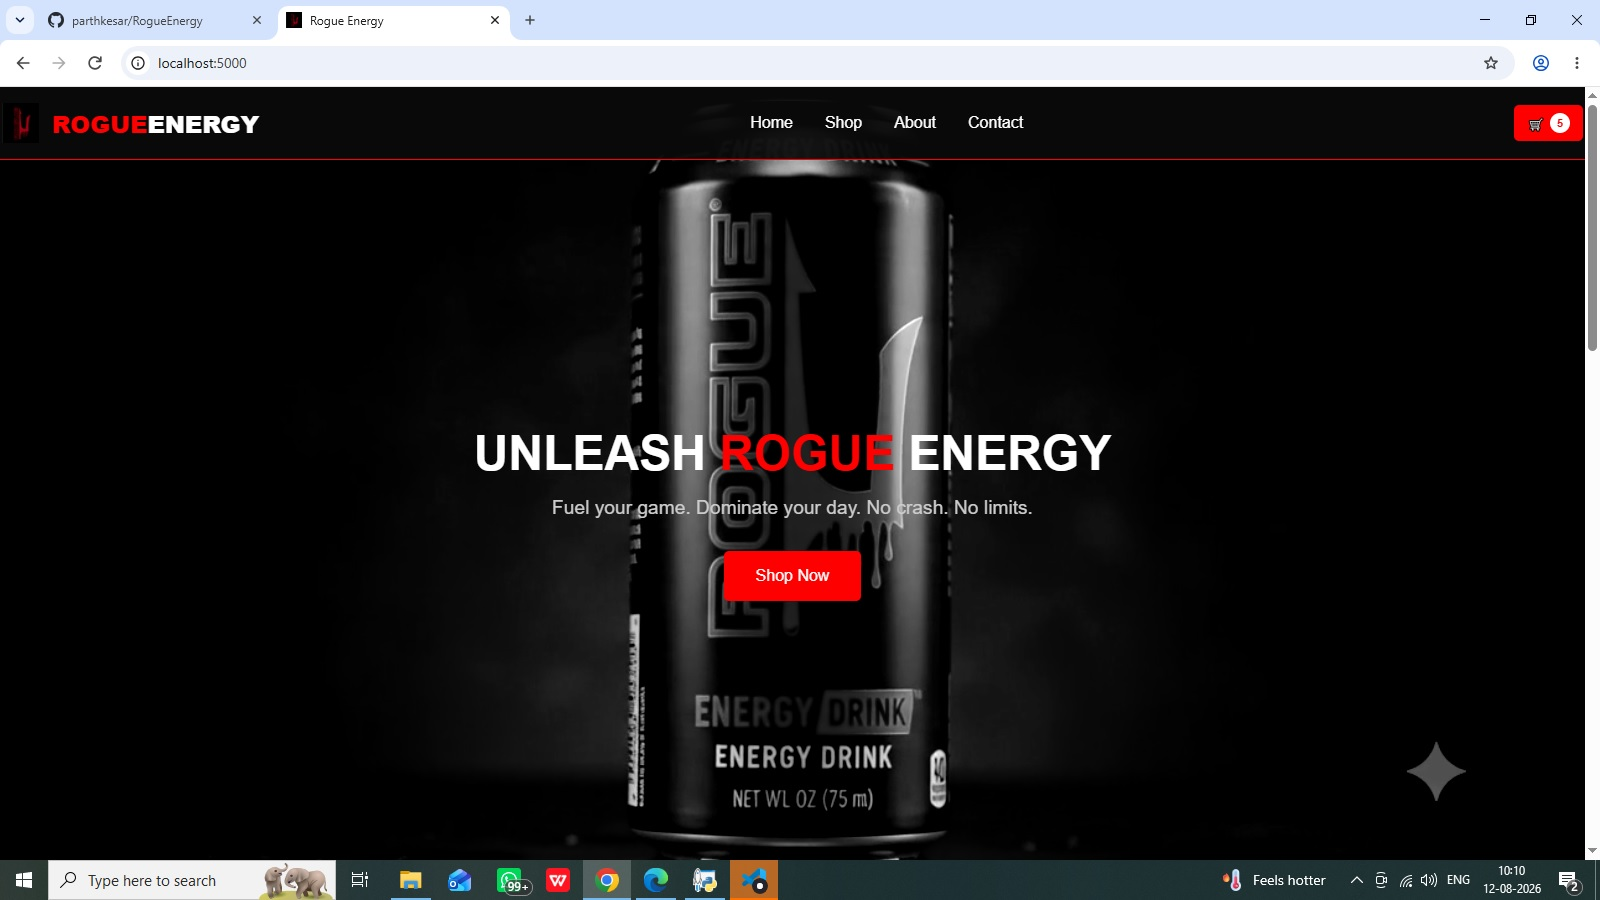
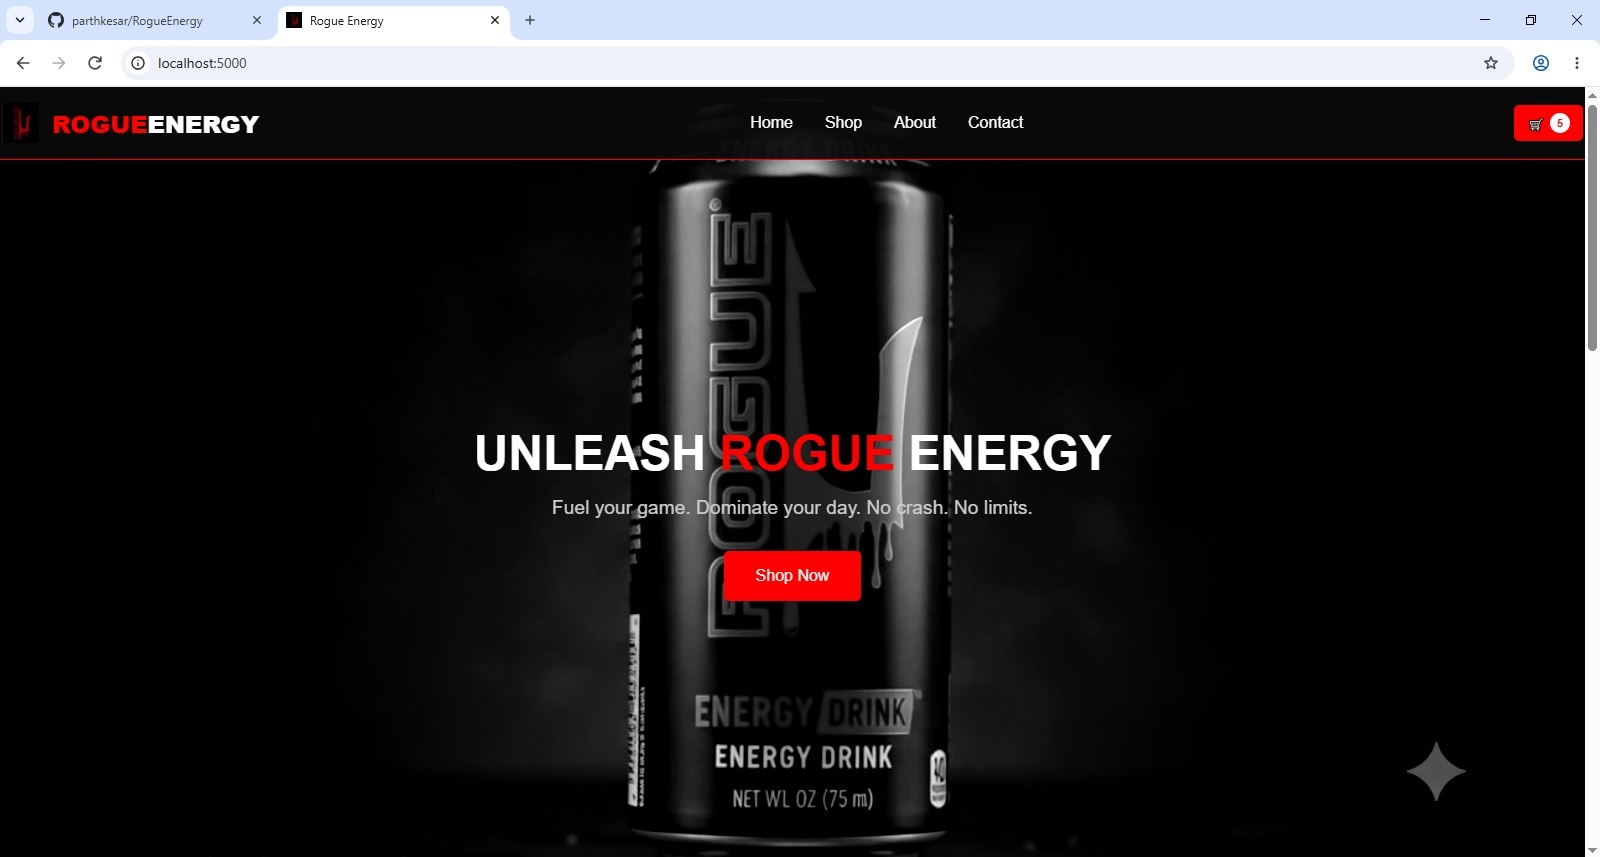
projects in progress

diff --git a/index.html b/index.html
@@ -212,7 +212,7 @@
         <h2 id="project-heading">Projects</h2>
         <div class="project-outline">
           <div class="project-bar">
-            <img src="img/rogueproject.jpg" alt="img" class="project-image" />
+            <img src="img/rogueprojectwithout taskbar.jpg" alt="img" class="project-image" />
             <p>
               This Flask application is a web app for the brand Rogue Energy.
               It serves a main landing page and provides backend APIs for
@@ -224,18 +224,60 @@
               </svg>
             </div>
           </div>
-          <div class="project-details">
+          <div class="project-details" style="overflow-y: scroll;">
             <h3>Rogue Energy Flask App</h3>
             <p>
-              A small Flask web app built for Rogue Energy with a landing page,
-              contact form, and backend APIs to support future e-commerce
-              features.
+              This Flask application is a small web app for the brand Rogue
+              Energy. It serves a main landing page and provides backend APIs
+              for contact submission and future shopping cart/checkout support.
             </p>
-            <ul>
-              <li>Flask frontend and backend integration</li>
-              <li>Contact submission support with persistence</li>
-              <li>Planned cart and checkout endpoints for future expansion</li>
-            </ul>
+
+            <div class="project-section">
+              <h4>Project Description</h4>
+              <ul>
+                <li>Renders a homepage using Flask templates.</li>
+                <li>Supports contact form submission via HTML and AJAX.</li>
+                <li>Provides API endpoints for cart retrieval, addition, and checkout.</li>
+              </ul>
+            </div>
+
+            <div class="project-section">
+              <h4>Data and Persistence</h4>
+              <p>
+                Uses a MySQL database for persistent storage and reads
+                connection settings from environment variables.
+              </p>
+              <ul>
+                <li>DB_HOST</li>
+                <li>DB_USER</li>
+                <li>DB_PASSWORD</li>
+                <li>DB_NAME</li>
+              </ul>
+            </div>
+
+            <div class="project-section">
+              <h4>Project Structure</h4>
+              <ul>
+                <li><strong>app.py</strong> — Flask application and route logic</li>
+                <li><strong>template/index.html</strong> — main HTML template</li>
+                <li><strong>static/css/style.css</strong> — styling</li>
+                <li><strong>static/js/script.js</strong> — client-side scripts</li>
+                <li><strong>static/img/</strong> — image assets</li>
+              </ul>
+            </div>
+
+            <div class="project-section">
+              <h4>Technologies Used</h4>
+              <ul>
+                <li>Python</li>
+                <li>Flask</li>
+                <li>MySQL</li>
+                <li>HTML / CSS / JavaScript</li>
+              </ul>
+            </div>
+
+            <img src="img/rogueproject.jpg" alt="" style="width: 100%;">
+            
           </div>
         </div>
       </div>

diff --git a/js/script.js b/js/script.js
@@ -28,3 +28,15 @@ const words = ["Full-Stack Developer", "Software Developer", "Mobile App Develop
       }
 
       typeEffect();
+
+      const arrows = document.querySelectorAll('.arrow');
+      arrows.forEach((arrow) => {
+        arrow.addEventListener('click', () => {
+          const projectOutline = arrow.closest('.project-outline');
+          const details = projectOutline?.querySelector('.project-details');
+          if (!details) return;
+
+          const opened = details.classList.toggle('open');
+          arrow.classList.toggle('active', opened);
+        });
+      });

diff --git a/css/projects.css b/css/projects.css
@@ -69,7 +69,7 @@
     max-height: 0;
     overflow: hidden;
     transition: max-height 0.4s ease, padding 0.4s ease;
-    background-color: rgba(0, 0, 0, 0.85);
+    background-color: black;
     color: white;
     padding: 0 1rem;
     font-size: 0.95rem;
